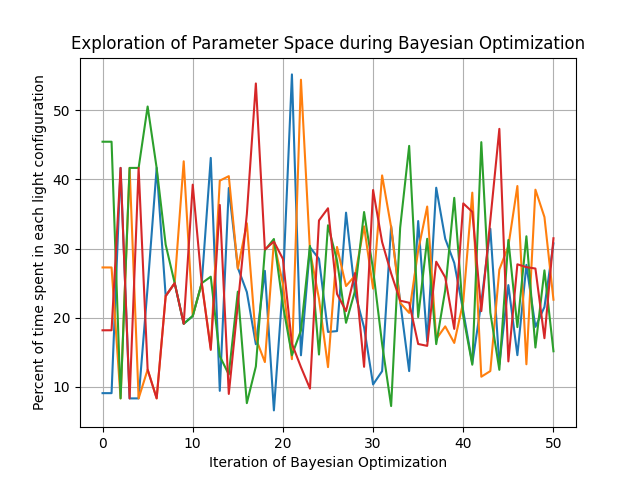
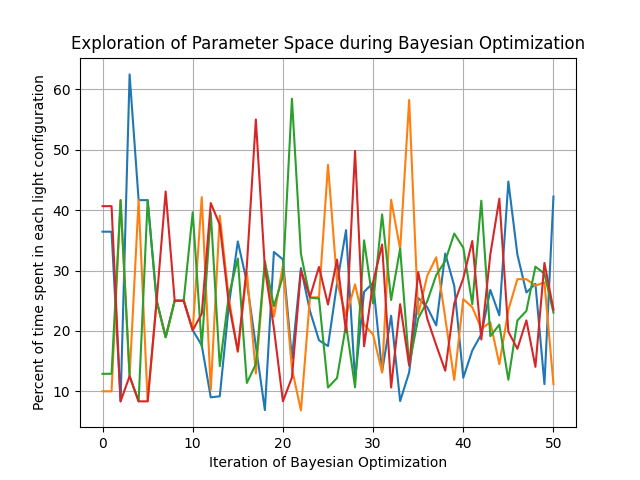
tau set to 1

diff --git a/xdraft/emulator.py b/xdraft/emulator.py
@@ -21,7 +21,7 @@ FOURLIGHTS = [ContinuousParameter('traffic_light_1', .1, .5),
               ContinuousParameter('traffic_light_3', .1, .5),
               ContinuousParameter('traffic_light_4', .1, .5)]
 
-INITIAL_PARTIAL_VARIABLES = [0.5, 0.5, 1, 1, 1, 0.1, 0.1, 0.1, 0.1, 0.1, 0.1, 0.1, 0.1, 0.1, 0.1, 0.1, 0.1]
+INITIAL_PARTIAL_VARIABLES = [0.5, 1, 1, 1, 1, 0.1, 0.1, 0.1, 0.1, 0.1, 0.1, 0.1, 0.1, 0.1, 0.1, 0.1, 0.1]
 
 
 class emu():
@@ -30,7 +30,7 @@ class emu():
         # Define parameter space for the simulator variables
 
         self.space = ParameterSpace(FOURLIGHTS + [ContinuousParameter('sigma', 0.5, 0.5),
-                                                  ContinuousParameter('tau', 0.5, 0.5),
+                                                  ContinuousParameter('tau', 1, 1),
                                                   ContinuousParameter('trucks', 1, 1),
                                                   ContinuousParameter('cars', 1, 1),
                                                   ContinuousParameter('bikes', 1, 1),
